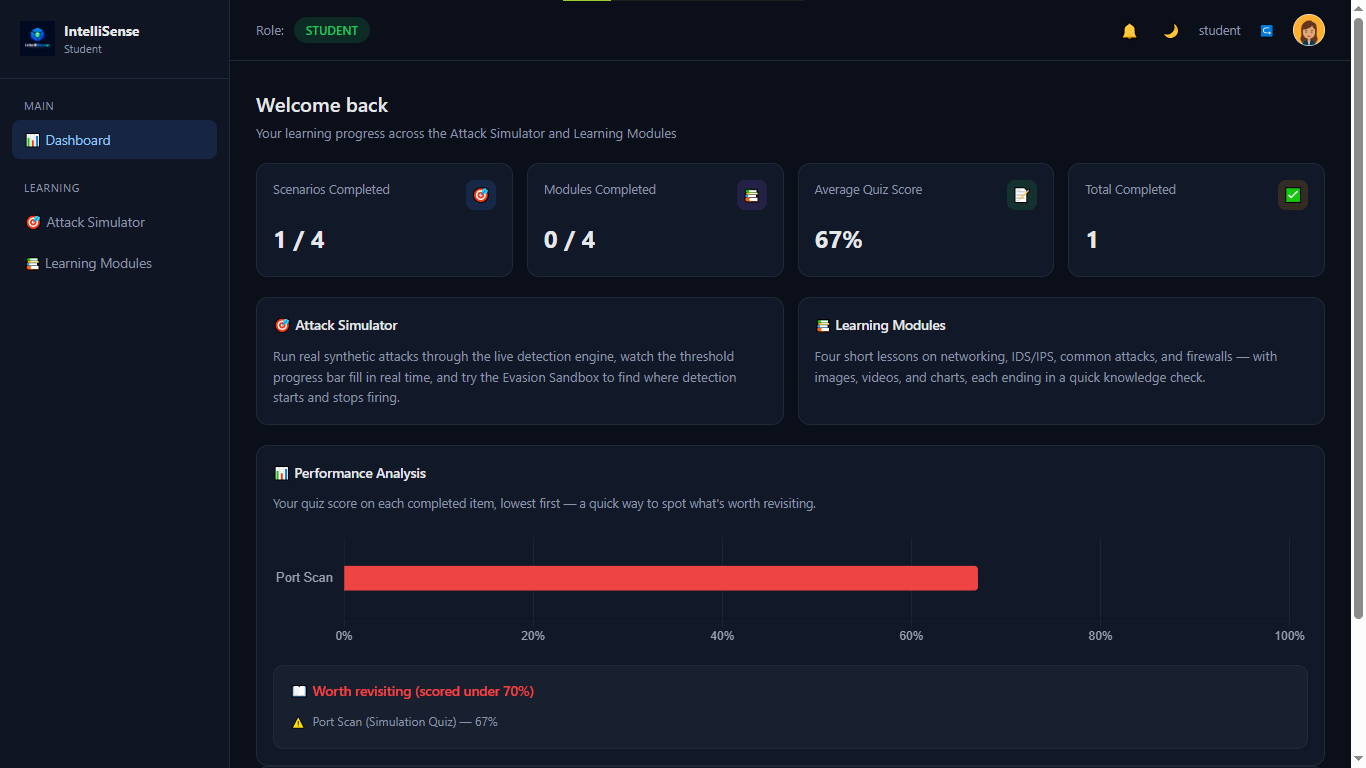
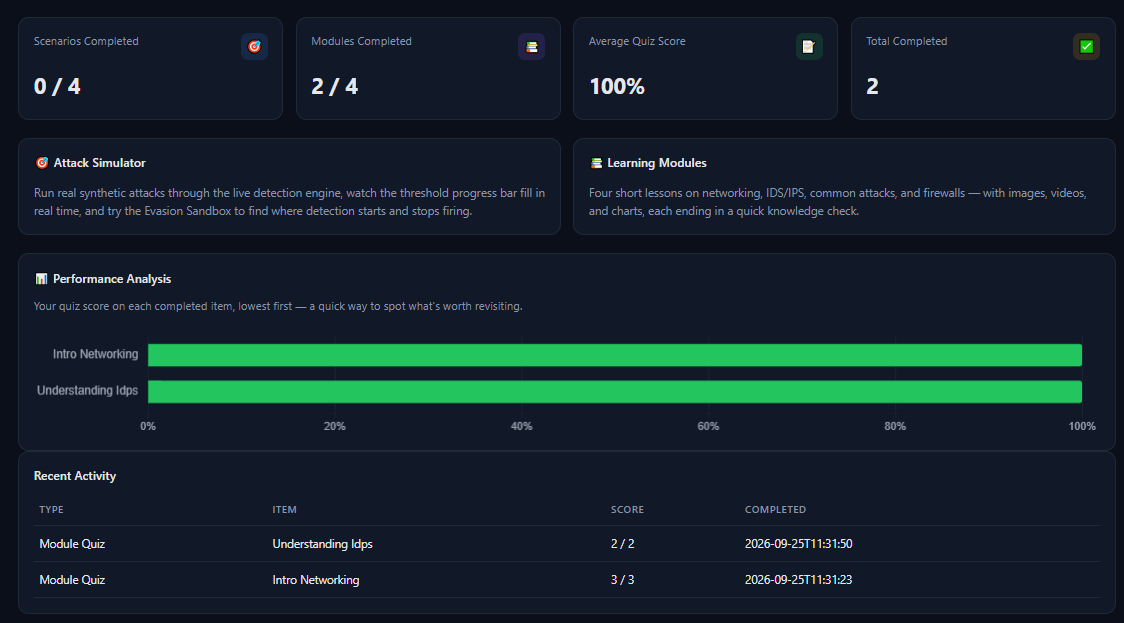
Added resolved button along with solved bugs

diff --git a/templates/incident_detail.html b/templates/incident_detail.html
@@ -66,6 +66,12 @@
     <p style="margin-bottom:10px;"><strong>Notes:</strong> {{ incident.notes or '-' }}</p>
     <p style="margin-bottom:10px;"><strong>Recommendation:</strong> {{ incident.recommendation or '-' }}</p>
     <p style="color:var(--green);"><strong>Status:</strong> {{ incident.status }} ✅</p>
+
+    {% if session.role == 'administrator' and incident.status == 'Action Taken' %}
+    <form method="POST" action="{{ url_for('admin_resolve_incident', incident_id=incident.incident_id) }}" style="margin-top:14px;">
+        <button class="qa-btn" style="background:rgba(34,197,94,0.15); color:var(--green); border-color:rgba(34,197,94,0.3);">✅ Mark Resolved</button>
+    </form>
+    {% endif %}
 </div>
 {% endif %}
 {% endblock %}

diff --git a/static/js/quick-actions.js b/static/js/quick-actions.js
@@ -10,6 +10,7 @@ if (clearBtn) {
             const res = await fetch('/api/clear-logs', { method: 'POST' });
             const data = await res.json();
             clearBtn.textContent = '✅ Cleared';
+            setTimeout(() => window.location.reload(), 600); // refresh so the now-empty table actually shows
         } catch (err) {
             clearBtn.textContent = '❌ Failed';
             console.error('Clear logs failed:', err);

diff --git a/templates/base_dashboard.html b/templates/base_dashboard.html
@@ -122,7 +122,6 @@
             </div>
         </div>
     </div>
-    <span>🌙</span>
     <span style="font-size:12.5px; color:var(--muted);">{{ session.username }}</span>
     <a href="{{ url_for('logout') }}" style="font-size:12px; color:var(--muted);" title="Log out">↪</a>
     <div class="avatar" style="padding: 0; overflow: hidden; background: none;">

diff --git a/app.py b/app.py
@@ -198,7 +198,13 @@ def admin_reject_incident(incident_id):
         )
 
     return redirect(url_for('admin_dashboard'))
-
+    
+@app.route('/admin/incident/<int:incident_id>/resolve', methods=['POST'])
+@auth.role_required('administrator')
+def admin_resolve_incident(incident_id):
+    """Final closing step - marks an already-actioned incident as fully resolved."""
+    database.update_incident(incident_id, status='Resolved')
+    return redirect(url_for('admin_dashboard'))
 
 # ---------------------------------------------------------------------------
 # SOC Analyst dashboard
@@ -747,12 +753,12 @@ def api_traffic_stats():
     user = auth.current_user()
     own_ip = capture.get_own_ip()
 
-    ts = packet_buffer.get_traffic_timeseries(own_ip, buckets=7, window_seconds=180)
+    ts = packet_buffer.get_traffic_timeseries(own_ip, buckets=6, window_seconds=60)
     labels = ts['labels']
 
     # Bucket this org's incidents into the same time window, for "Alerts Over Time"
     now = time.time()
-    window_seconds = 180
+    window_seconds = 60
     bucket_size = window_seconds / len(labels)
     alerts_over_time = [0] * len(labels)
 
